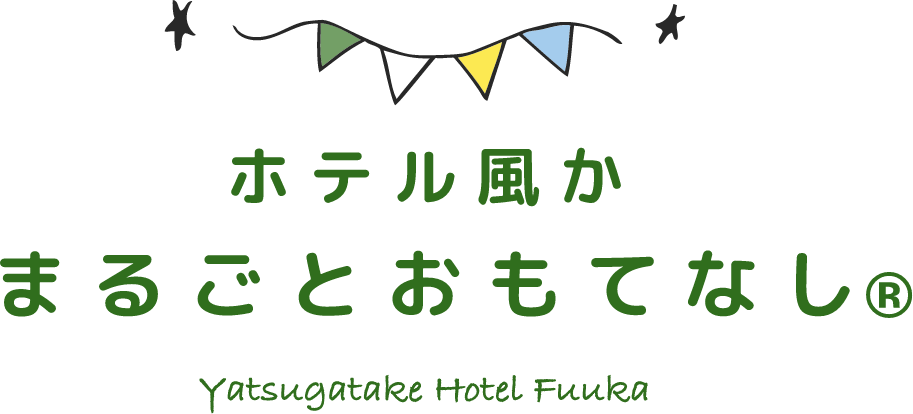
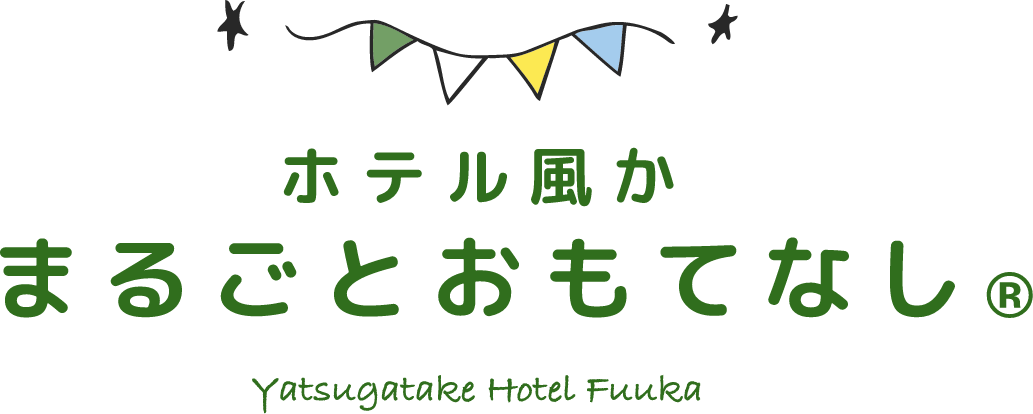
【WP/楽天】まるごとおもてなし/スタイル修正

diff --git a/wp-content/themes/fuuka/css/style.css b/wp-content/themes/fuuka/css/style.css
@@ -47,6 +47,9 @@
     display: flex;
     flex-direction: column;
     align-items: center;
+    background-color: #fff;
+    z-index: 2;
+    padding-bottom: 4rem;
 }
 .fv_menu a:nth-of-type(2){
     margin-top: 4rem;
@@ -2977,7 +2980,7 @@ margin-top: 8rem;
   z-index: 1;
   width: 10rem;
   padding-top: 17rem;
-  padding-bottom: 10rem;
+  padding-bottom: 4rem;
   z-index: 2;
 }
 #hos .pageinfo{
@@ -2991,7 +2994,7 @@ margin-top: 8rem;
   background-repeat: no-repeat, no-repeat;
 }
 #hos .pageinfo_inner .title{
-  width: 46rem;
+  width: 52rem;
   margin: 10rem auto 5rem;
 }
 #hos .pageinfo_inner p{
